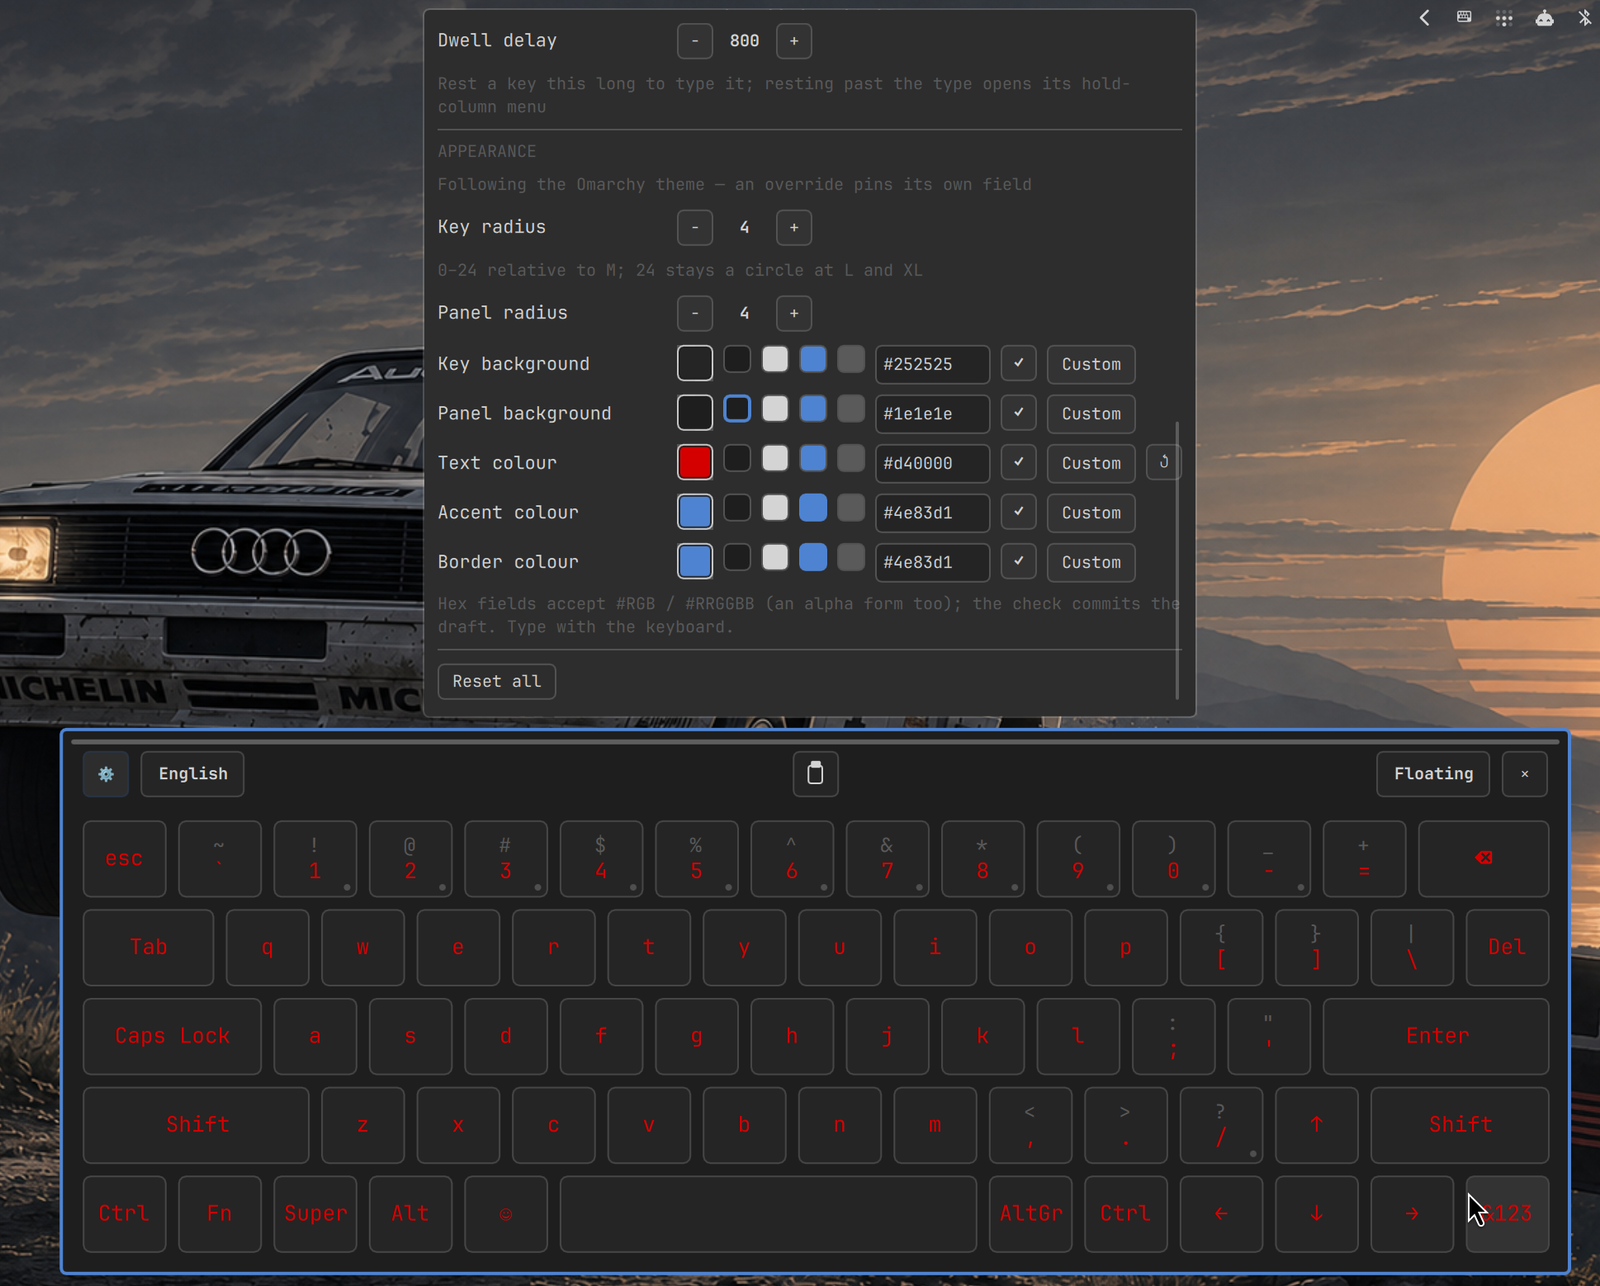
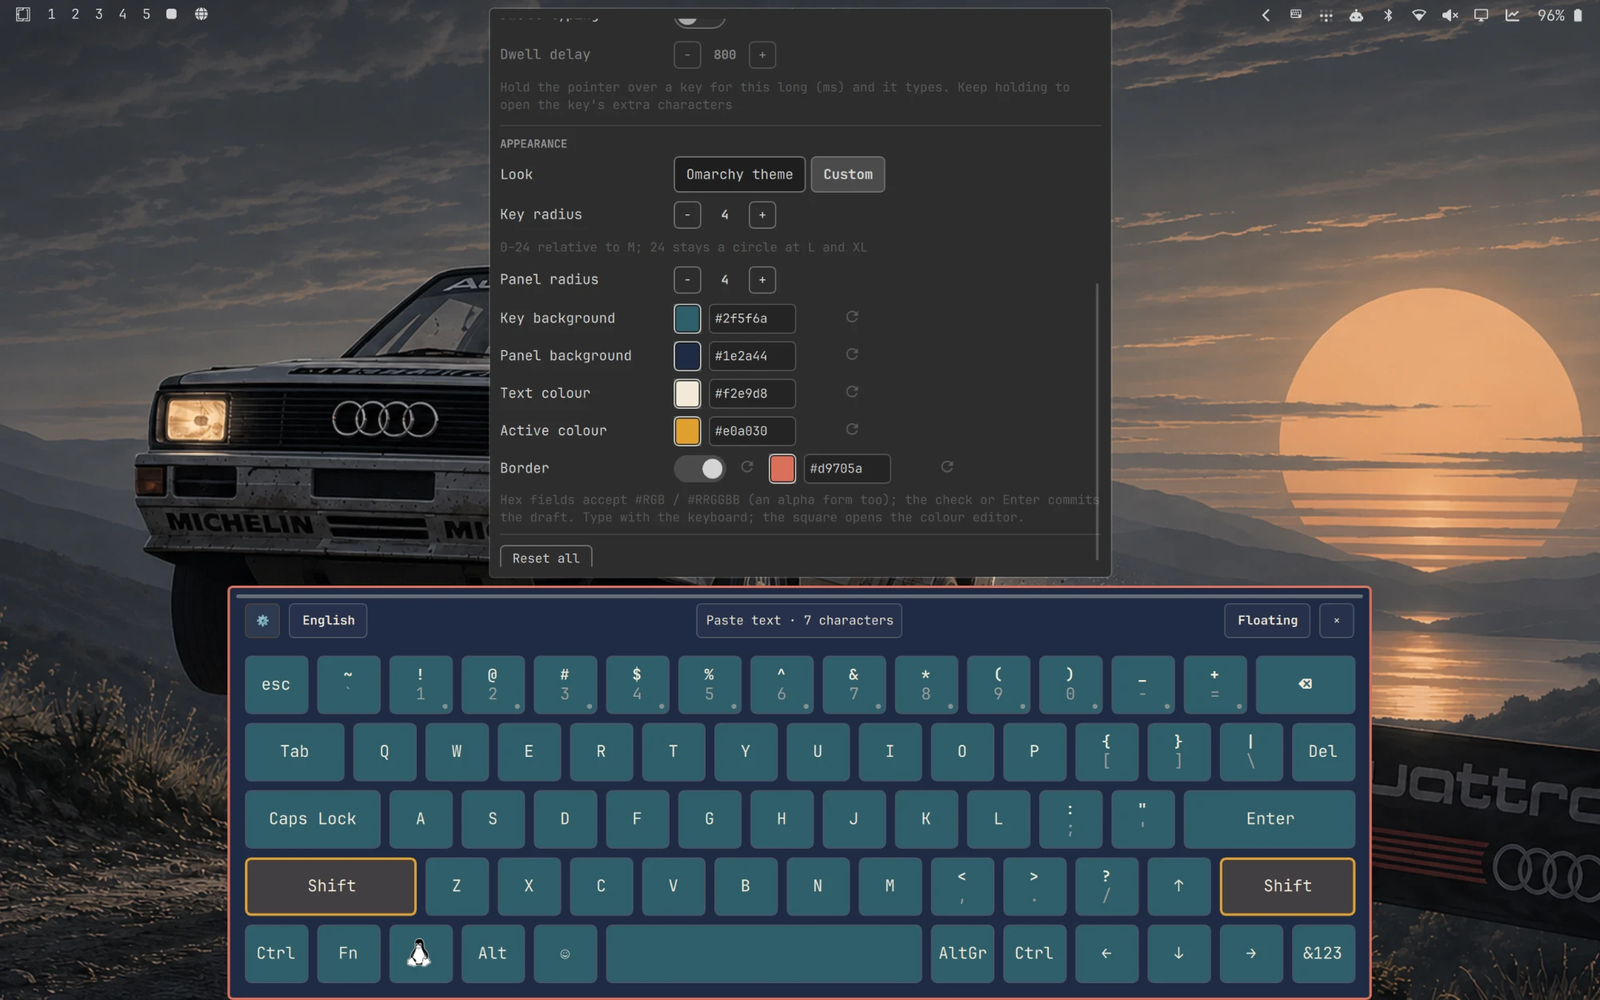
docs: refresh the settings and appearance screenshots
Both now show the 0.2.x settings panel: the general page with the
pointer profile and super mark rows, and the appearance page with its
colour fields and border toggle applied live.

diff --git a/README.md b/README.md
@@ -61,7 +61,7 @@ are under [Other ways to install](#other-ways-to-install).
 | <img src="assets/screenshots/language-menu.png" width="480" alt="Language chooser with endonyms"> <br>**Languages named in their own language** — English, Українська, Italiano; picking one moves the whole seat | <img src="assets/screenshots/hold-column-ukrainian.png" width="480" alt="Hold column on a Ukrainian key"> <br>**Hold a key** — its extra levels stack into a column (Ukrainian н: ŷ) |
 | <img src="assets/screenshots/symbols-ukrainian.png" width="480" alt="Symbols page"> <br>**?123 symbols** — currency and punctuation on every layout | <img src="assets/screenshots/emoji-page.png" width="480" alt="Emoji page"> <br>**Emoji page** — categories, recents, the panel's own grid |
 | <img src="assets/screenshots/emoji-search.png" width="480" alt="Emoji search"> <br>**Emoji search** — type a query, pick from the matches | <img src="assets/screenshots/settings.png" width="480" alt="Settings popover"> <br>**Settings** — mode, size, interface language, input profile |
-| <img src="assets/screenshots/appearance-theme.png" width="480" alt="Appearance editor with a custom red theme"> <br>**Appearance** — radius and colours, applied live | |
+| <img src="assets/screenshots/appearance-theme.png" width="480" alt="Appearance editor with a custom navy-and-teal theme"> <br>**Appearance** — radius and colours, applied live | |
 
 ## Modes and configuration
 
